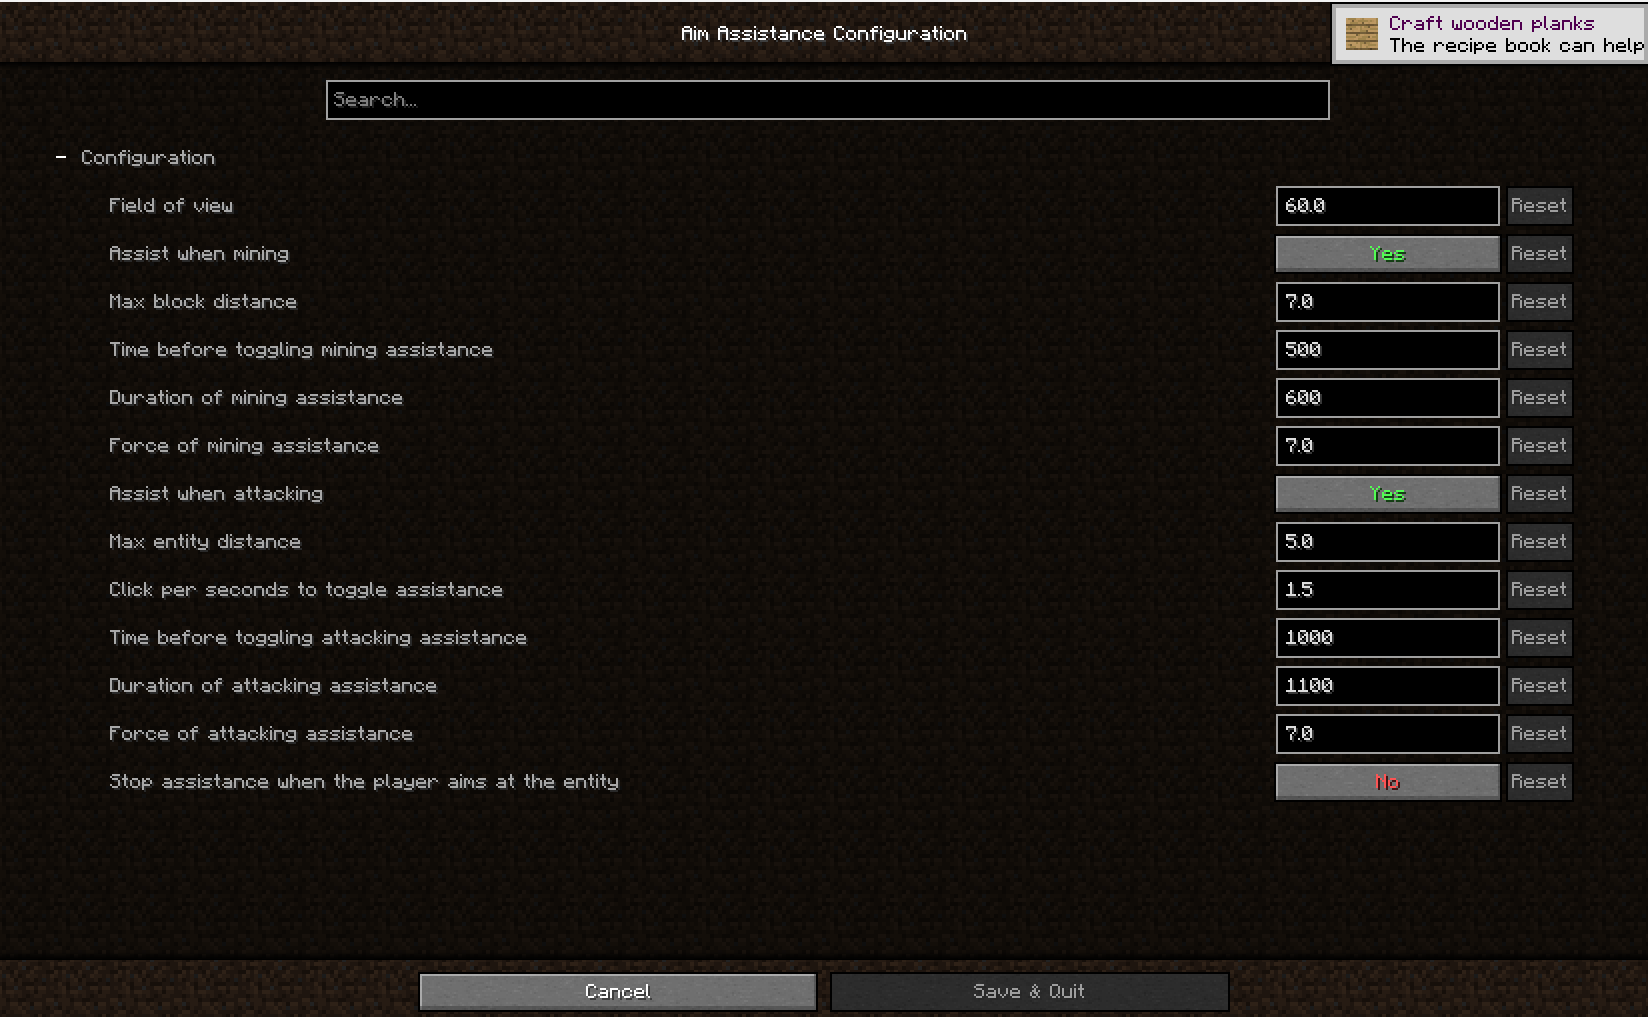
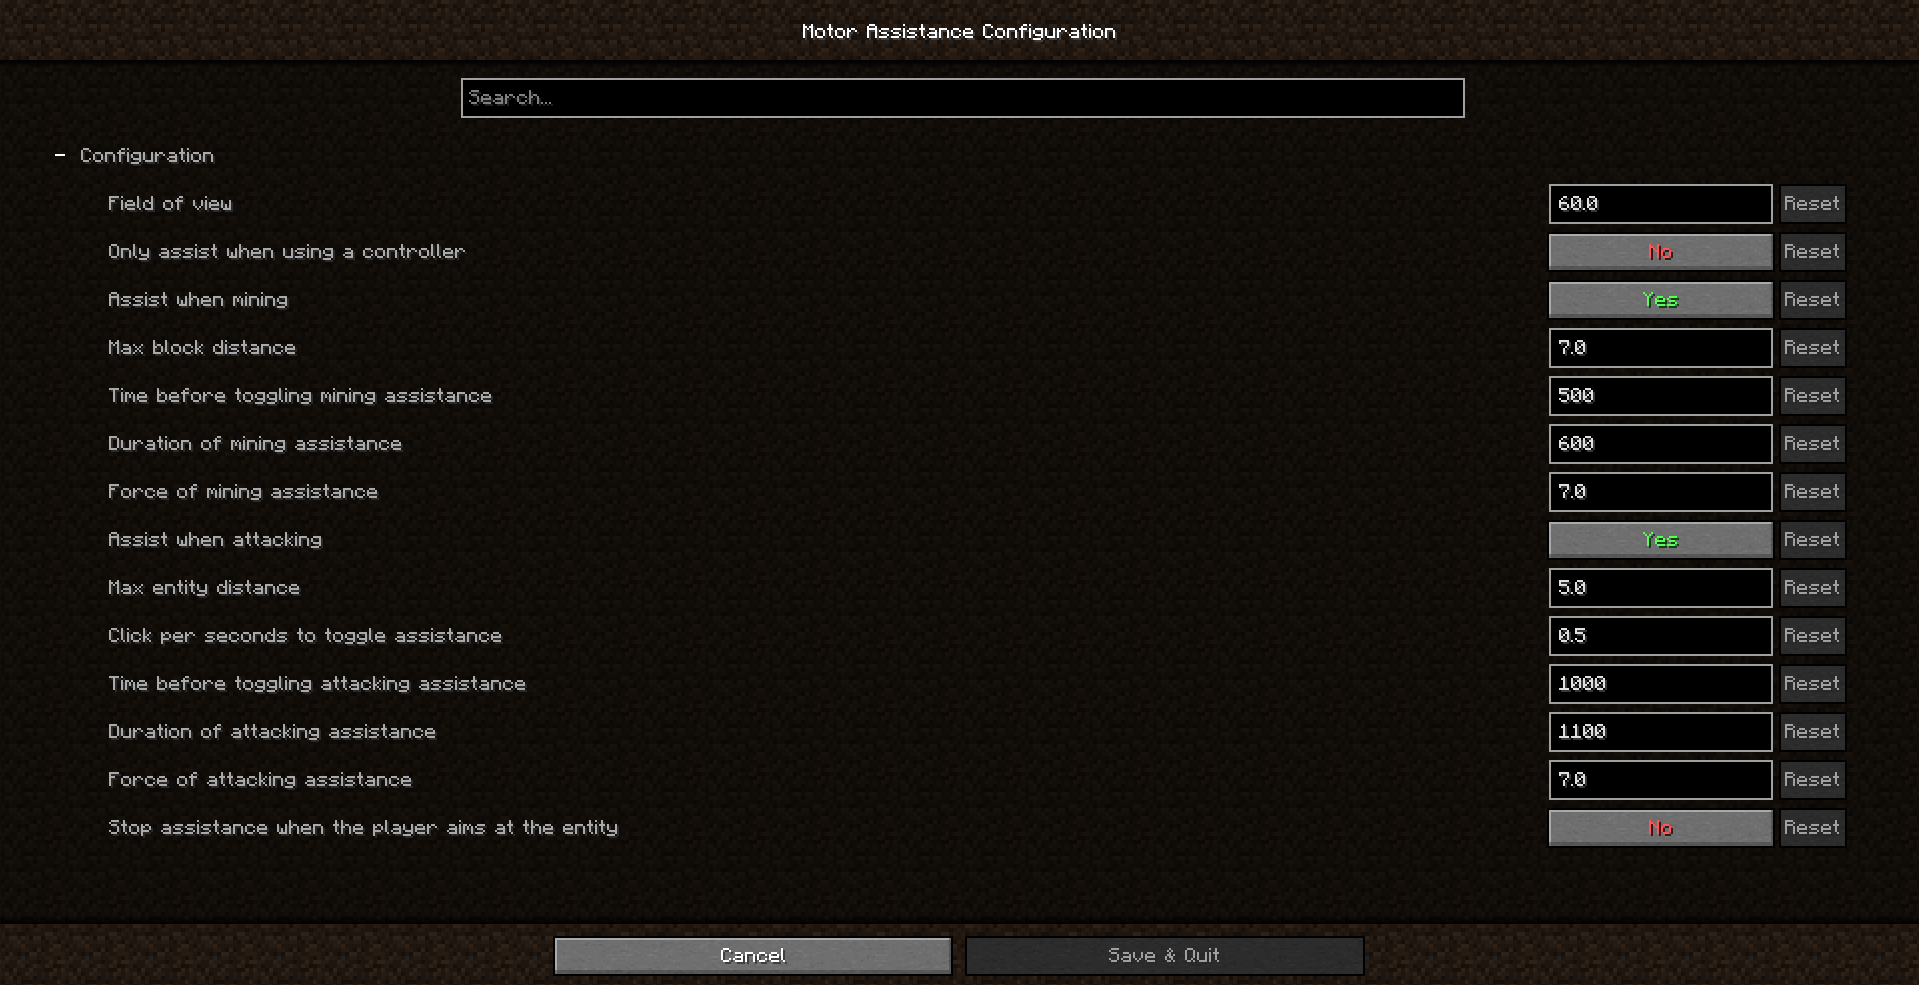
(forge) 2.1.0: controllable support & new option to only assist controller & improved assistance

diff --git a/common/src/main/kotlin/dev/gallon/motorassistance/common/services/AimAssistanceService.kt b/common/src/main/kotlin/dev/gallon/motorassistance/common/services/AimAssistanceService.kt
@@ -9,8 +9,8 @@ import kotlin.math.sqrt
 
 class MotorAssistanceService(
     private val minecraft: Minecraft,
-    private val mouse: Mouse,
-    private val config: MotorAssistanceConfig
+    private val input: Input,
+    private val config: MotorAssistanceConfig,
 ) {
     private var target: Target? = null
     private var interactingWith: TargetType = TargetType.NONE
@@ -26,6 +26,7 @@ class MotorAssistanceService(
      */
     fun analyseEnvironment() {
         if (minecraft.getPlayer()?.canInteract() != true) return
+        if (config.onlyAssistController && !input.isControllerUsed()) return
 
         when (interactingWith) {
             TargetType.ENTITY -> minecraft.getPlayer()!!
@@ -48,6 +49,7 @@ class MotorAssistanceService(
      */
     fun analyseBehavior() {
         if (minecraft.getPlayer()?.canInteract() != true) return
+        if (config.onlyAssistController && !input.isControllerUsed()) return
 
         // Common
         val attackKeyPressed = minecraft.attackKeyPressed()
@@ -71,7 +73,7 @@ class MotorAssistanceService(
         }
 
         // Attack detection
-        val wasLeftClicked = mouse.wasLeftClicked()
+        val wasLeftClicked = input.wasAttackClicked()
 
         if (attackCount == 0 && wasLeftClicked && config.aimEntity) {
             attackCount += 1
@@ -118,6 +120,7 @@ class MotorAssistanceService(
      */
     fun assistIfPossible() {
         if (minecraft.getPlayer()?.canInteract() != true) return
+        if (config.onlyAssistController && !input.isControllerUsed()) return
         if (target == null) return
 
         if (interactingWith != TargetType.NONE) {
@@ -125,14 +128,17 @@ class MotorAssistanceService(
             val rotation = computeRotationsNeeded(
                 minecraft.getPlayer()!!,
                 target!!,
-                config.fov, config.fov,
-                Rotation(aimForce, aimForce)
+                config.fov,
+                config.fov,
+                Rotation(aimForce, aimForce),
             )
 
             // We need to prevent focusing another block while assisting if the player is not moving his mouse
-            val assist = if (interactingWith === TargetType.BLOCK && !mouse.wasMoved()) {
+            val assist = if (interactingWith === TargetType.BLOCK && !input.wasMoved()) {
                 val nextBlock = minecraft.getPlayer()!!.rayTrace(
-                    config.blockRange, minecraft.getPlayer()!!.getEyesPosition(), rotation
+                    config.blockRange,
+                    minecraft.getPlayer()!!.getEyesPosition(),
+                    rotation,
                 )
 
                 // If, after moving the mouse, another block is focused, then don't assist
@@ -151,8 +157,11 @@ class MotorAssistanceService(
                 }
             } else if (interactingWith == TargetType.ENTITY) {
                 // Don't assist if the option to stop when reached is on AND if the player is currently aiming at a mob
-                if (config.stopAttackOnReached) !minecraft.playerAimingMob()
-                else true
+                if (config.stopAttackOnReached) {
+                    !minecraft.playerAimingMob()
+                } else {
+                    true
+                }
             } else {
                 true
             }
@@ -186,7 +195,7 @@ class MotorAssistanceService(
             .map { factor ->
                 computeRotationBetween(
                     source.getEyesPosition(),
-                    target.getPosition().run { copy(y = y + target.getEyesHeight() * factor) }
+                    target.getPosition().run { copy(y = y + target.getEyesHeight() * factor) },
                 )
             }
             .minBy { rotation ->
@@ -229,7 +238,6 @@ class MotorAssistanceService(
         fovY: Double,
         step: Rotation,
     ): Rotation {
-
         val rotation = when (target) {
             is Block -> computeRotationBetween(source.getEyesPosition(), target.getFacePosition())
             is Entity -> computeSmallestRotationBetween(source, target)
@@ -251,9 +259,11 @@ class MotorAssistanceService(
                 if (inFovX && inFovY) {
                     copy(
                         yaw = yaw + ((wrapDegrees(rotation.yaw - yaw)) * step.yaw) / 100,
-                        pitch = pitch + ((wrapDegrees(rotation.pitch - pitch)) * step.pitch) / 100
+                        pitch = pitch + ((wrapDegrees(rotation.pitch - pitch)) * step.pitch) / 100,
                     )
-                } else this
+                } else {
+                    this
+                }
             }
     }
 }

diff --git a/forge/src/main/kotlin/dev/gallon/motorassistance/forge/adapters/ForgeInputAdapter.kt b/forge/src/main/kotlin/dev/gallon/motorassistance/forge/adapters/ForgeInputAdapter.kt
@@ -1,0 +1,61 @@
+package dev.gallon.motorassistance.forge.adapters
+
+import com.mrcrayfish.controllable.Controllable
+import dev.gallon.motorassistance.common.interfaces.Input
+import net.minecraft.client.Minecraft
+import net.minecraftforge.client.event.InputEvent
+import net.minecraftforge.event.TickEvent
+import net.minecraftforge.eventbus.api.SubscribeEvent
+import net.minecraftforge.fml.ModList
+import org.lwjgl.glfw.GLFW
+
+class ForgeInputAdapter : Input {
+    private var moved = false
+    private var leftClicked = false
+    private var prevX = -1.0
+    private var prevY = -1.0
+    private var lastTriggerValue = 0.0
+
+    @SubscribeEvent
+    fun onClientTick(clientTickEvent: TickEvent.ClientTickEvent) {
+        checkForMoveInput()
+
+        if (isControllerUsed() && !leftClicked) {
+            leftClicked = lastTriggerValue == 0.0 &&
+                Controllable.getController()?.run { rTriggerValue > 0.0F } ?: false
+            lastTriggerValue = Controllable.getController()?.rTriggerValue?.toDouble() ?: 0.0
+        }
+    }
+
+    @SubscribeEvent
+    fun onMouseButtonClicked(mouseEvent: InputEvent.MouseButton.Post) {
+        if (mouseEvent.button == GLFW.GLFW_MOUSE_BUTTON_LEFT) {
+            leftClicked = true
+        }
+    }
+
+    private fun checkForMoveInput() {
+        val currX: Double = if (isControllerUsed()) {
+            Controllable.getController()?.rThumbStickXValue?.toDouble() ?: 0.0
+        } else {
+            Minecraft.getInstance().mouseHandler.xpos()
+        }
+
+        val currY: Double = if (isControllerUsed()) {
+            Controllable.getController()?.rThumbStickYValue?.toDouble() ?: 0.0
+        } else {
+            Minecraft.getInstance().mouseHandler.ypos()
+        }
+
+        if (prevX != -1.0 && prevY != -1.0 && !moved) {
+            moved = prevX != currX || prevY != currY
+        }
+    }
+
+    override fun wasAttackClicked(): Boolean = leftClicked.also { leftClicked = false }
+
+    override fun wasMoved(): Boolean = moved.also { moved = false }
+
+    override fun isControllerUsed(): Boolean = ModList.get().isLoaded("controllable") &&
+        Controllable.getInput().isControllerInUse
+}

diff --git a/forge/src/main/kotlin/dev/gallon/motorassistance/forge/MotorAssistance.kt b/forge/src/main/kotlin/dev/gallon/motorassistance/forge/MotorAssistance.kt
@@ -2,7 +2,7 @@ package dev.gallon.motorassistance.forge
 
 import dev.gallon.motorassistance.common.services.MotorAssistanceService
 import dev.gallon.motorassistance.forge.adapters.ForgeMinecraftAdapter
-import dev.gallon.motorassistance.forge.adapters.ForgeMouseAdapter
+import dev.gallon.motorassistance.forge.adapters.ForgeInputAdapter
 import dev.gallon.motorassistance.forge.config.ModConfig
 import me.shedaniel.autoconfig.AutoConfig
 import me.shedaniel.autoconfig.serializer.JanksonConfigSerializer
@@ -18,7 +18,7 @@ import thedarkcolour.kotlinforforge.forge.FORGE_BUS
 @Mod("motorassistance")
 object MotorAssistance {
     private var motorAssistance: MotorAssistanceService? = null
-    private val forgeMouseAdapter: ForgeMouseAdapter = ForgeMouseAdapter()
+    private val forgeMouseAdapter: ForgeInputAdapter = ForgeInputAdapter()
 
     init {
         AutoConfig.register(ModConfig::class.java, ::JanksonConfigSerializer)
@@ -39,17 +39,14 @@ object MotorAssistance {
         FORGE_BUS.addListener(::onClientTick)
         FORGE_BUS.addListener(::onRender)
         FORGE_BUS.addListener(forgeMouseAdapter::onClientTick)
-        FORGE_BUS.addListener(forgeMouseAdapter::onMouseButtonReleased)
+        FORGE_BUS.addListener(forgeMouseAdapter::onMouseButtonClicked)
     }
 
     @SubscribeEvent
     fun onLoggingIn(loggingInEvent: LevelEvent.Load) {
         motorAssistance = MotorAssistanceService(
-            minecraft = ForgeMinecraftAdapter(
-                Minecraft.getInstance(),
-                AutoConfig.getConfigHolder(ModConfig::class.java).config.modConfig,
-            ),
-            mouse = forgeMouseAdapter,
+            minecraft = ForgeMinecraftAdapter(Minecraft.getInstance()),
+            input = forgeMouseAdapter,
             config = AutoConfig.getConfigHolder(ModConfig::class.java).config.modConfig,
         )
     }

diff --git a/forge/src/main/kotlin/dev/gallon/motorassistance/forge/adapters/ForgeMinecraftAdapter.kt b/forge/src/main/kotlin/dev/gallon/motorassistance/forge/adapters/ForgeMinecraftAdapter.kt
@@ -1,7 +1,6 @@
 package dev.gallon.motorassistance.forge.adapters
 
 import com.mrcrayfish.controllable.Controllable
-import dev.gallon.motorassistance.common.domain.MotorAssistanceConfig
 import dev.gallon.motorassistance.common.interfaces.Block
 import dev.gallon.motorassistance.common.interfaces.Minecraft
 import dev.gallon.motorassistance.common.interfaces.Player
@@ -13,7 +12,6 @@ import net.minecraft.client.Minecraft as ForgeMinecraft
 
 class ForgeMinecraftAdapter(
     private val minecraft: ForgeMinecraft,
-    val config: MotorAssistanceConfig,
 ) : Minecraft {
 
     override fun getPlayer(): Player? = minecraft
@@ -21,14 +19,11 @@ class ForgeMinecraftAdapter(
         ?.let(::ForgePlayerAdapter)
 
     override fun attackKeyPressed(): Boolean =
-        minecraft.options.keyAttack.isDown && config.onlyAssistController
-            .takeIf { it }
-            ?.let {
-                // If we should only assist when using a controller, then make sure that the player is pressing attack
-                // key with its controller
+        minecraft.options.keyAttack.isDown ||
+            (
                 ModList.get().isLoaded("controllable") &&
-                    Controllable.getController()?.run { rTriggerValue != 0.0F } ?: false
-            } ?: true // no constraints
+                    Controllable.getController()?.run { rTriggerValue > 0.0F } ?: false
+                )
 
     override fun playerAimingMob(): Boolean =
         minecraft.crosshairPickEntity is Mob

diff --git a/fabric/src/main/kotlin/dev/gallon/motorassistance/fabric/MotorAssistance.kt b/fabric/src/main/kotlin/dev/gallon/motorassistance/fabric/MotorAssistance.kt
@@ -2,8 +2,8 @@ package dev.gallon.motorassistance.fabric
 
 import dev.gallon.motorassistance.common.domain.MotorAssistanceConfig
 import dev.gallon.motorassistance.common.services.MotorAssistanceService
+import dev.gallon.motorassistance.fabric.adapters.FabricInputAdapter
 import dev.gallon.motorassistance.fabric.adapters.FabricMinecraftAdapter
-import dev.gallon.motorassistance.fabric.adapters.FabricMouseAdapter
 import dev.gallon.motorassistance.fabric.config.ModConfig
 import dev.gallon.motorassistance.fabric.events.RenderEvent
 import dev.gallon.motorassistance.fabric.events.SingleEventBus
@@ -35,7 +35,7 @@ class MotorAssistance : ModInitializer {
         if (motorAssistance == null && MinecraftClient.getInstance().player != null) {
             motorAssistance = MotorAssistanceService(
                 minecraft = FabricMinecraftAdapter(MinecraftClient.getInstance()),
-                mouse = FabricMouseAdapter(),
+                input = FabricInputAdapter(),
                 config = config,
             )
         } else if (motorAssistance != null && MinecraftClient.getInstance().player == null) {

diff --git a/buildSrc/src/main/kotlin/dev/gallon/gradle/Versions.kt b/buildSrc/src/main/kotlin/dev/gallon/gradle/Versions.kt
@@ -34,4 +34,6 @@ const val fabricKotlinVersion = "1.10.10+kotlin.$kotlinVersion" // https://githu
 const val modMenuVersion = "7.2.1" // https://github.com/TerraformersMC/ModMenu/releases
 
 // Forge
-const val controllableVersion = "4598985" // https://www.curseforge.com/minecraft/mc-mods/controllable
+const val mixinForgeVersion = "0.7.+"
+const val controllableForgeVersion = "4598985" // https://www.curseforge.com/minecraft/mc-mods/controllable
+const val frameworkForgeVersion = "4718251" // https://www.curseforge.com/minecraft/mc-mods/framework

diff --git a/common/src/main/kotlin/dev/gallon/motorassistance/common/domain/MotorAssistanceConfig.kt b/common/src/main/kotlin/dev/gallon/motorassistance/common/domain/MotorAssistanceConfig.kt
@@ -15,7 +15,7 @@ data class MotorAssistanceConfig(
     // entity
     val aimEntity: Boolean = true,
     val entityRange: Double = 5.0,
-    val attackInteractionSpeed: Double = 1.5,
+    val attackInteractionSpeed: Double = 0.5,
     val attackInteractionDuration: Long = 1000,
     val attackAssistanceDuration: Long = 1100,
     val attackAimForce: Double = 7.0,

diff --git a/common/src/main/kotlin/dev/gallon/motorassistance/common/interfaces/Input.kt b/common/src/main/kotlin/dev/gallon/motorassistance/common/interfaces/Input.kt
@@ -1,0 +1,7 @@
+package dev.gallon.motorassistance.common.interfaces
+
+interface Input {
+    fun wasAttackClicked(): Boolean
+    fun wasMoved(): Boolean
+    fun isControllerUsed(): Boolean
+}

diff --git a/CHANGELOG-forge.md b/CHANGELOG-forge.md
@@ -10,3 +10,4 @@
 - Support for Controllable
 - Added an option to enable assistance only when a controller is used. In that case,
 the assistance will be disabled when using a mouse
+- Improved assistance with controllers
